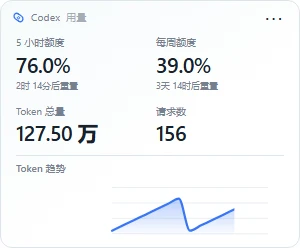
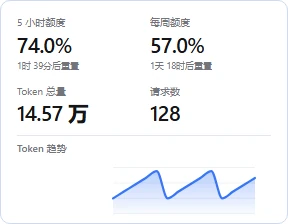
0.1.12：更新悬浮窗设计与网页预览

diff --git a/docs/FLOATING_REFERENCES.md b/docs/FLOATING_REFERENCES.md
@@ -1,0 +1,13 @@
+# 悬浮窗开源参考与取舍
+
+本页记录2026-10-16本轮读取的开源交互及界面源码。产品当前设计以根目录design.md为准；不复制外部项目源码、视觉资产或引入其依赖。许可证原文见各仓库，不能以“开源”替代授权核对。
+
+| 项目与实际读取文件 | 可参考之处 | 本项目取舍 |
+|---|---|---|
+| [TrafficMonitor](https://github.com/zhongyang219/TrafficMonitor) · [TrafficMonitorDlg.cpp](https://github.com/zhongyang219/TrafficMonitor/blob/master/TrafficMonitor/TrafficMonitorDlg.cpp) | 小面积监测、按皮肤布局选择内容、正文鼠标操作与右键菜单 | 复用紧凑数据表面及低频菜单的交互思路；保留现有用量来源和口径，不复制其绘制或系统监测代码 |
+| [Guage](https://github.com/evoziosk/guage) · [src/ui/widget.py](https://github.com/evoziosk/guage/blob/main/src/ui/widget.py) | 无框置顶、双环/条形/mini视图、正文拖动、按模式设置尺寸 | 以额度为视觉主体，移除悬浮窗Logo标题条；采用既有React组件及缓动，不复制Qt绘制代码或常驻每秒整窗刷新 |
+| [OpenTokenMonitor](https://github.com/Hitheshkaranth/OpenTokenMonitor) · [WidgetMode.tsx](https://github.com/Hitheshkaranth/OpenTokenMonitor/blob/main/src/components/layout/WidgetMode.tsx) / [useWidgetResize.ts](https://github.com/Hitheshkaranth/OpenTokenMonitor/blob/main/src/hooks/useWidgetResize.ts) | 组件化紧凑监测、独立widget视图、窗口尺寸适配与清理 | 分离悬浮内容与按需加载设置，保留自己的Electron安全桥和生命周期；不引入其采集服务、业务状态或Tauri插件 |
+
+贴边问题使用本项目自身的原生区域裁剪和光标命中实现，不将网页hover样例直接当作Windows悬浮窗方案。尺寸稳定后以transform呈现展开/收起，短时同步原生绘制及点击区域；64ms光标核对仅在吸附且未全屏隐藏时启用，自由、拖动、禁用及退出时停止。依据[Electron BrowserWindow.setShape](https://www.electronjs.org/docs/latest/api/browser-window#winsetshaperects-windows-linux-experimental)的命中语义，收缩后的透明区域不拦截其他窗口。
+
+本轮只进行源码与隔离协议验证：真实OS鼠标碰边、原生合成器观感和多屏/DPI未执行。模拟光标坐标、模拟菜单/全屏协议、Chromium合成数据截图与实际原生输入验收分别记录，不互相替代。

diff --git a/README.md b/README.md
@@ -14,11 +14,11 @@
 
 一个以本机 Profile 为资料边界的个人工作台。网页版与 Windows 桌面版共享页面和业务服务；项目、待办、账单、提示词与用量证据集中管理。一个 Profile 就是一个实例账户，无需应用登录或注册，用户名与头像可以修改。
 
-## 0.1.11 桌面功能
+## 0.1.12 悬浮窗改进
 
-独立用量悬浮窗提供双圆环、横向摘要、紧凑卡片与详细面板，可配置指标、图表、独立筛选、浅深配色和原生毛玻璃。默认关闭，在桌面「关于 → 用量悬浮窗」或托盘菜单开启。
+独立用量悬浮窗采用无标题栏的紧凑数据表面，与工作台共用中性色、字体及强调色。提供双圆环、横向摘要、紧凑卡片与详细面板，可配置指标、图表、独立筛选、浅深配色和原生毛玻璃。默认关闭，在桌面「关于 → 用量悬浮窗」或托盘菜单开启。
 
-悬浮窗开启后关闭主窗会保存可恢复的编辑现场并释放主界面，后台监测继续；从托盘或悬浮窗恢复。支持左、右、上贴边收缩和同屏全屏避让。网页版不提供原生悬浮窗，Windows 安装版由 Releases 提供。
+悬浮窗开启后关闭主窗会保存可恢复的编辑现场并释放主界面，后台监测继续；从托盘或悬浮窗恢复。支持左、右、上贴边收缩和同屏全屏避让；碰边展开、移出收起，连续操作接管当前动画。悬浮内容和设置分开加载，隐藏暂停查询及图表，筛选响应缓存按字节限制。网页版不提供原生悬浮窗，Windows 安装版由 Releases 提供。
 
 ## 支持的工具与来源
 

diff --git a/GIT_LOG.md b/GIT_LOG.md
@@ -1,5 +1,5 @@
 # 发布记录
 
-## 0.1.11
+## 0.1.12
 
 React、TypeScript、Vite 与 Node、SQLite；Profile 实例资料、完整加密备份。桌面安装版由 Releases 提供。
